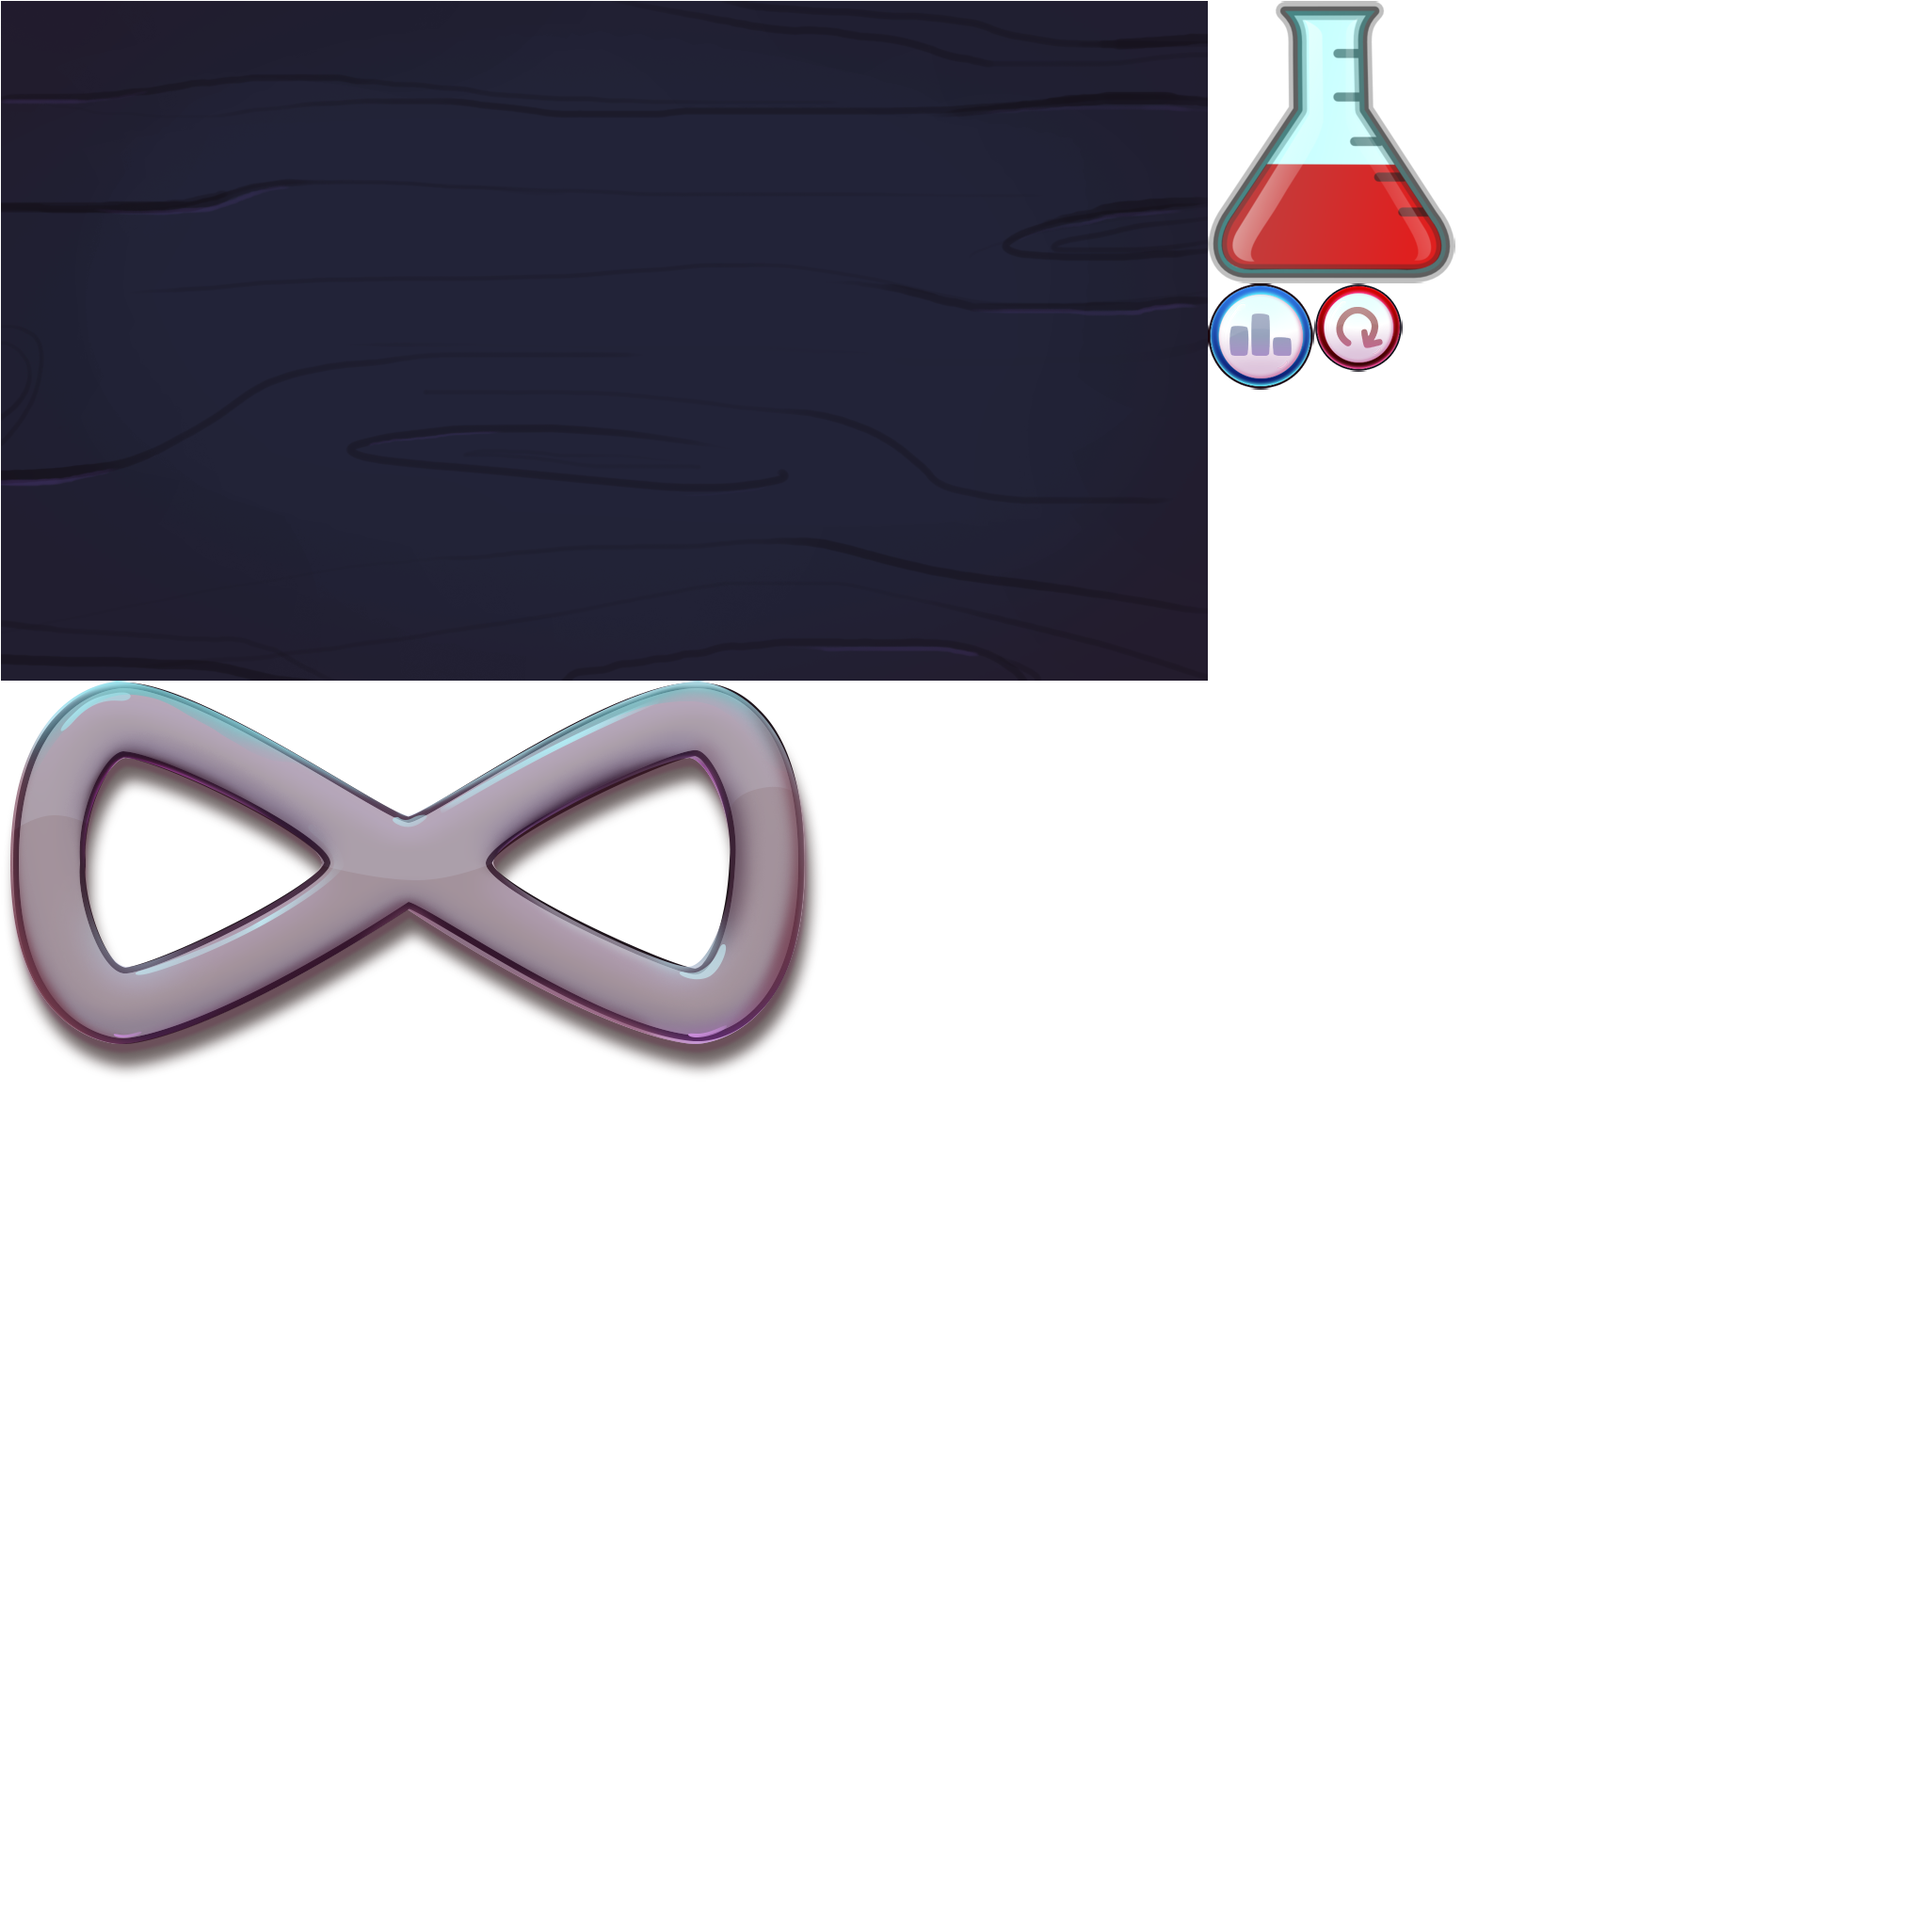
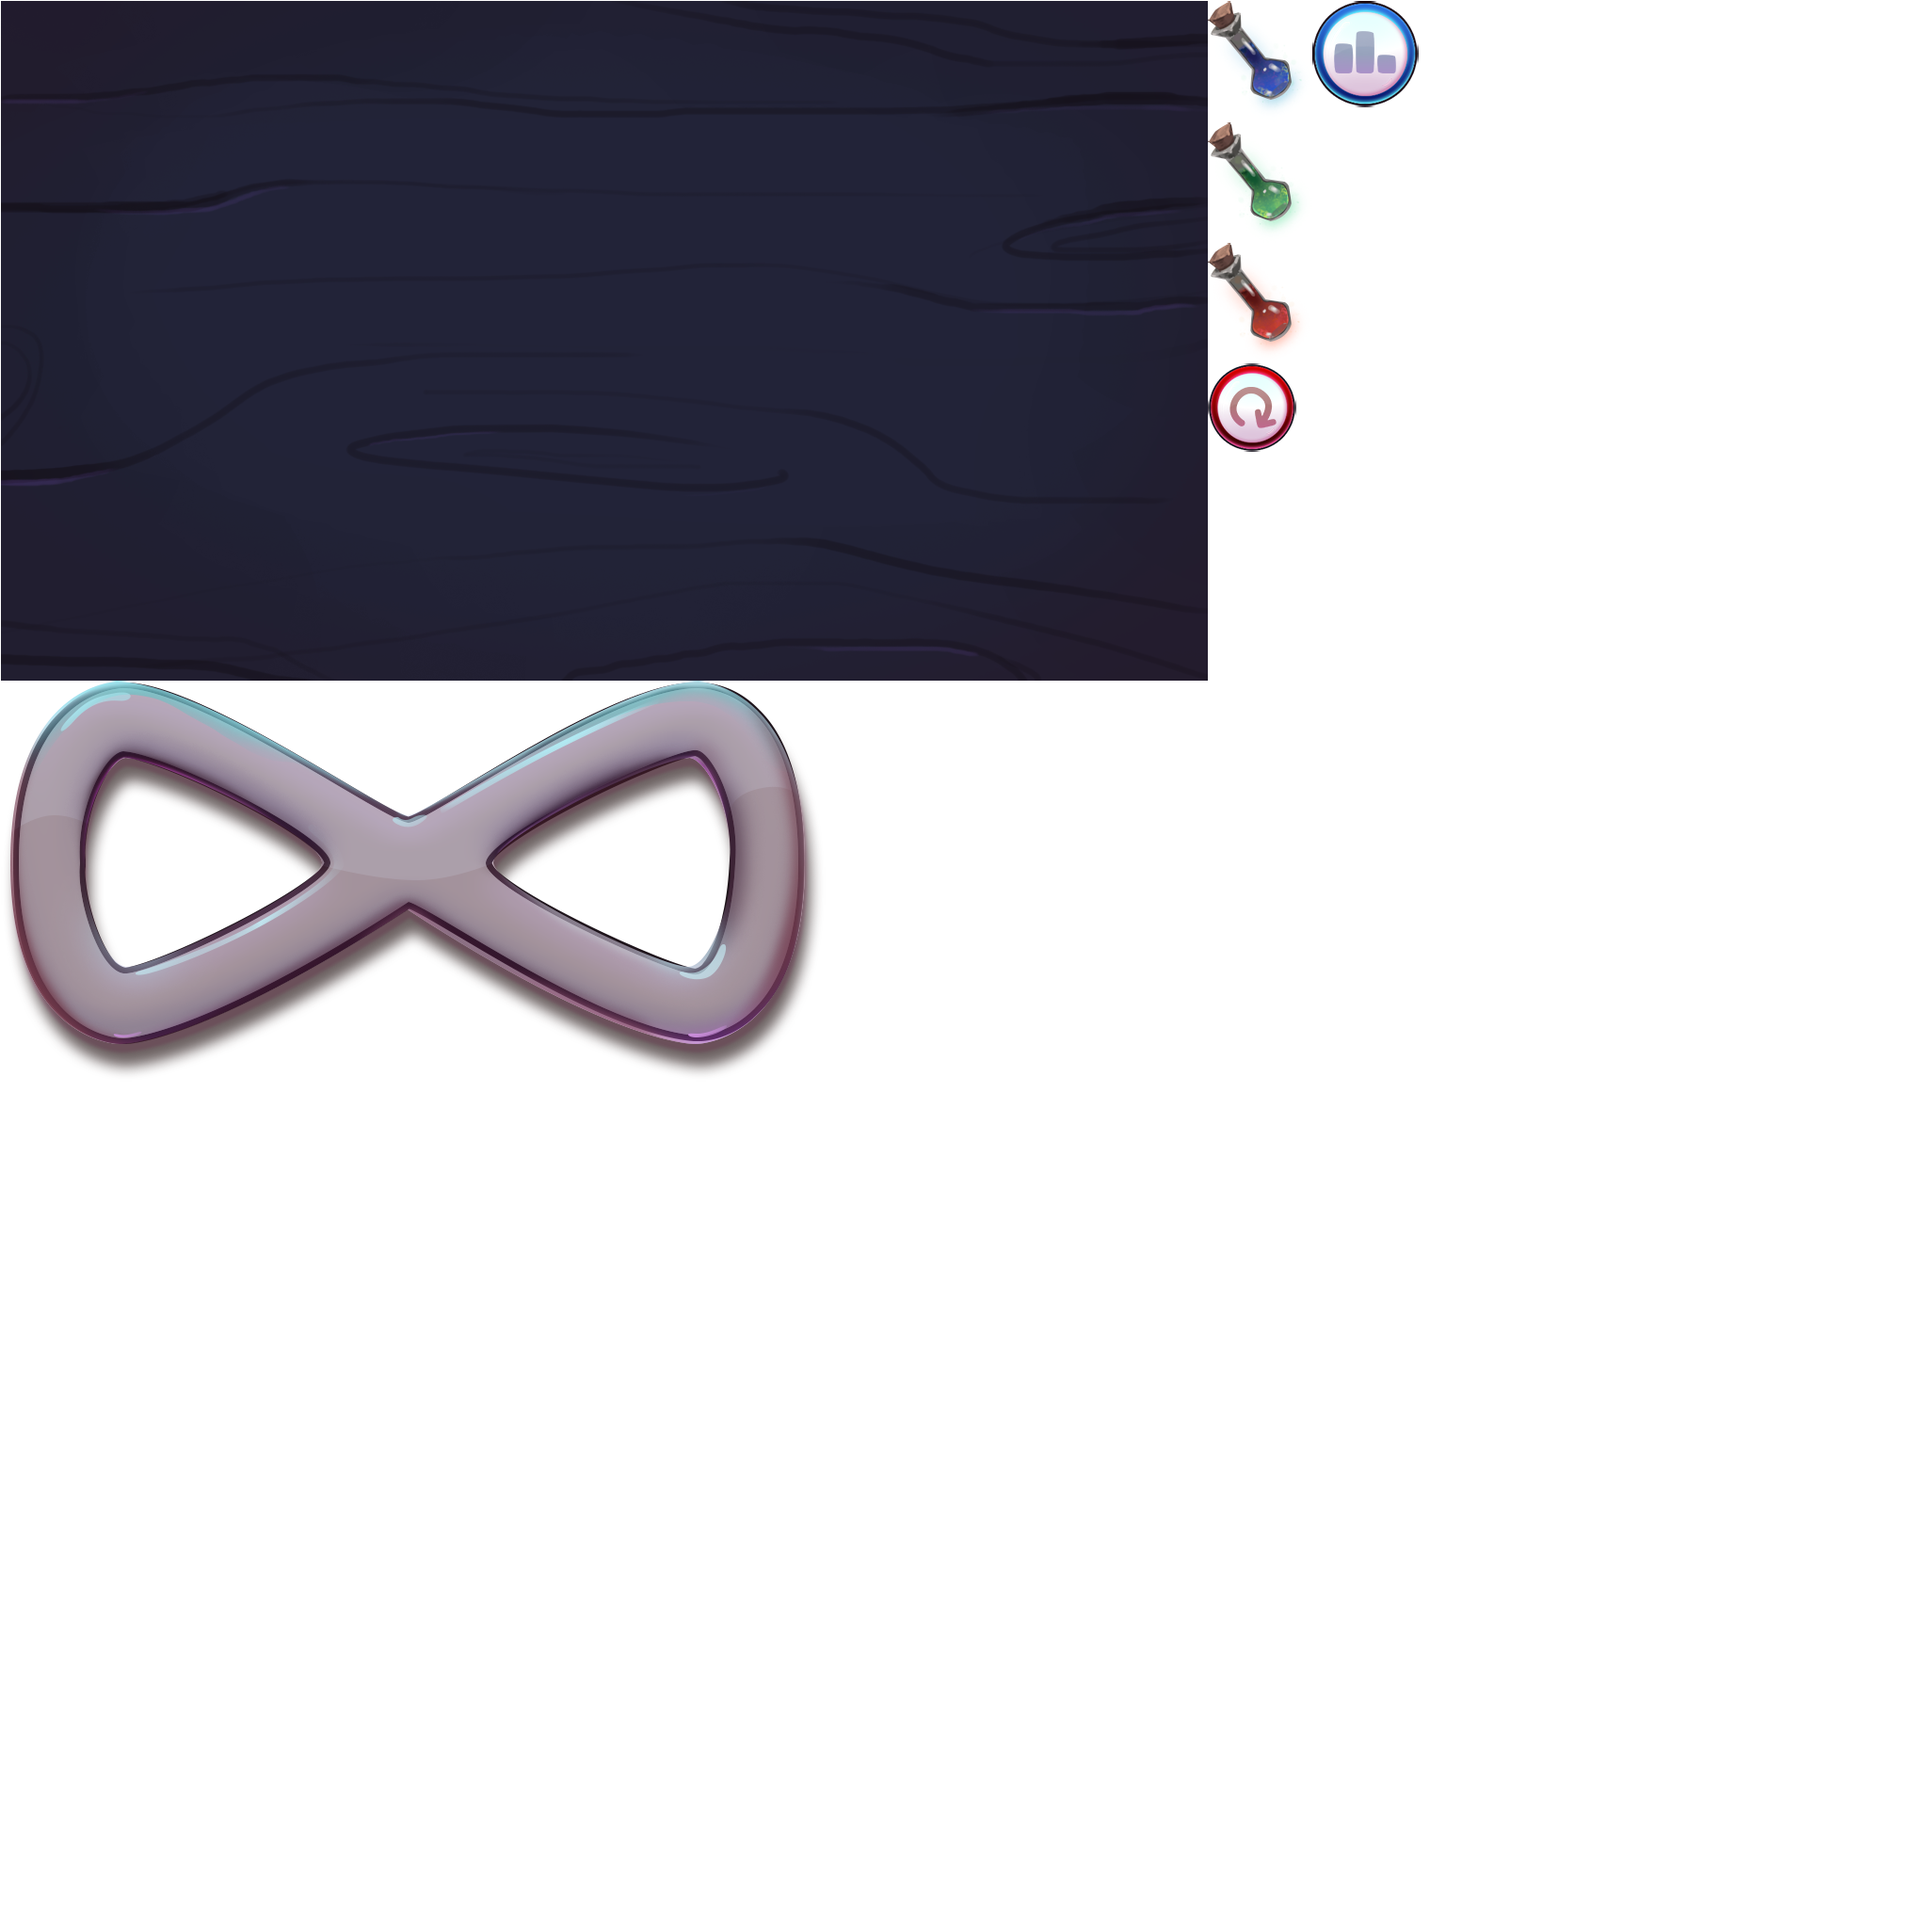
Merge branch 'master' of https://github.com/davekirakosyan/liquidizer into ui-integration
# Conflicts:
#	core/src/com/chemicalmagicians/liquidizer/gamescreens/Gameplay.java

Changed region(s): [[0.625, 0.0, 0.75, 0.25]]

diff --git a/core/src/com/chemicalmagicians/liquidizer/ui/GameScreenUI.java b/core/src/com/chemicalmagicians/liquidizer/ui/GameScreenUI.java
@@ -22,7 +22,7 @@ public class GameScreenUI extends Table {
 
 		for (Image flask:flasks()) {
 			rightTopAlignedTable.add(flask).size(70);
-			rightTopAlignedTable.row().padTop(20);
+			rightTopAlignedTable.row().padTop(10);
 		}
 
 		elixir.top().right();
@@ -42,14 +42,14 @@ public class GameScreenUI extends Table {
 
 		controlBarTable.top().left();
 		controlBarTable.add(leftTopAlignedTable).pad(20);
-
 		return controlBarTable;
 	}
 
 	private Array<Image> flasks(){
 		Array<Image> flaskArray = new Array<Image>();
-		flaskArray.add(new Image(atlas.findRegion("flask1")));
-		flaskArray.add(new Image(atlas.findRegion("red-flask-md")));
+		flaskArray.add(new Image(atlas.findRegion("red")));
+		flaskArray.add(new Image(atlas.findRegion("green")));
+		flaskArray.add(new Image(atlas.findRegion("blue")));
 		return flaskArray;
 	}
 

diff --git a/core/src/com/chemicalmagicians/liquidizer/gamescreens/Gameplay.java b/core/src/com/chemicalmagicians/liquidizer/gamescreens/Gameplay.java
@@ -87,10 +87,10 @@ public class Gameplay extends GameScreen implements IGameplay {
     public void render() {
 
         if(Gdx.input.isKeyPressed(Input.Keys.A) && !isPressed) {
-            fillWithElixir(20, 0,Color.RED);
+            fillWithElixir(45, 0,Color.RED);
             isPressed = true;
         } else if(Gdx.input.isKeyPressed(Input.Keys.S) && !isPressed) {
-            fillWithElixir(20, 0, Color.GREEN);
+            fillWithElixir(45, 0, Color.GREEN);
             isPressed = true;
         } else if(!Gdx.input.isKeyPressed(Input.Keys.A) && !Gdx.input.isKeyPressed(Input.Keys.S)) {
             isPressed = false;
